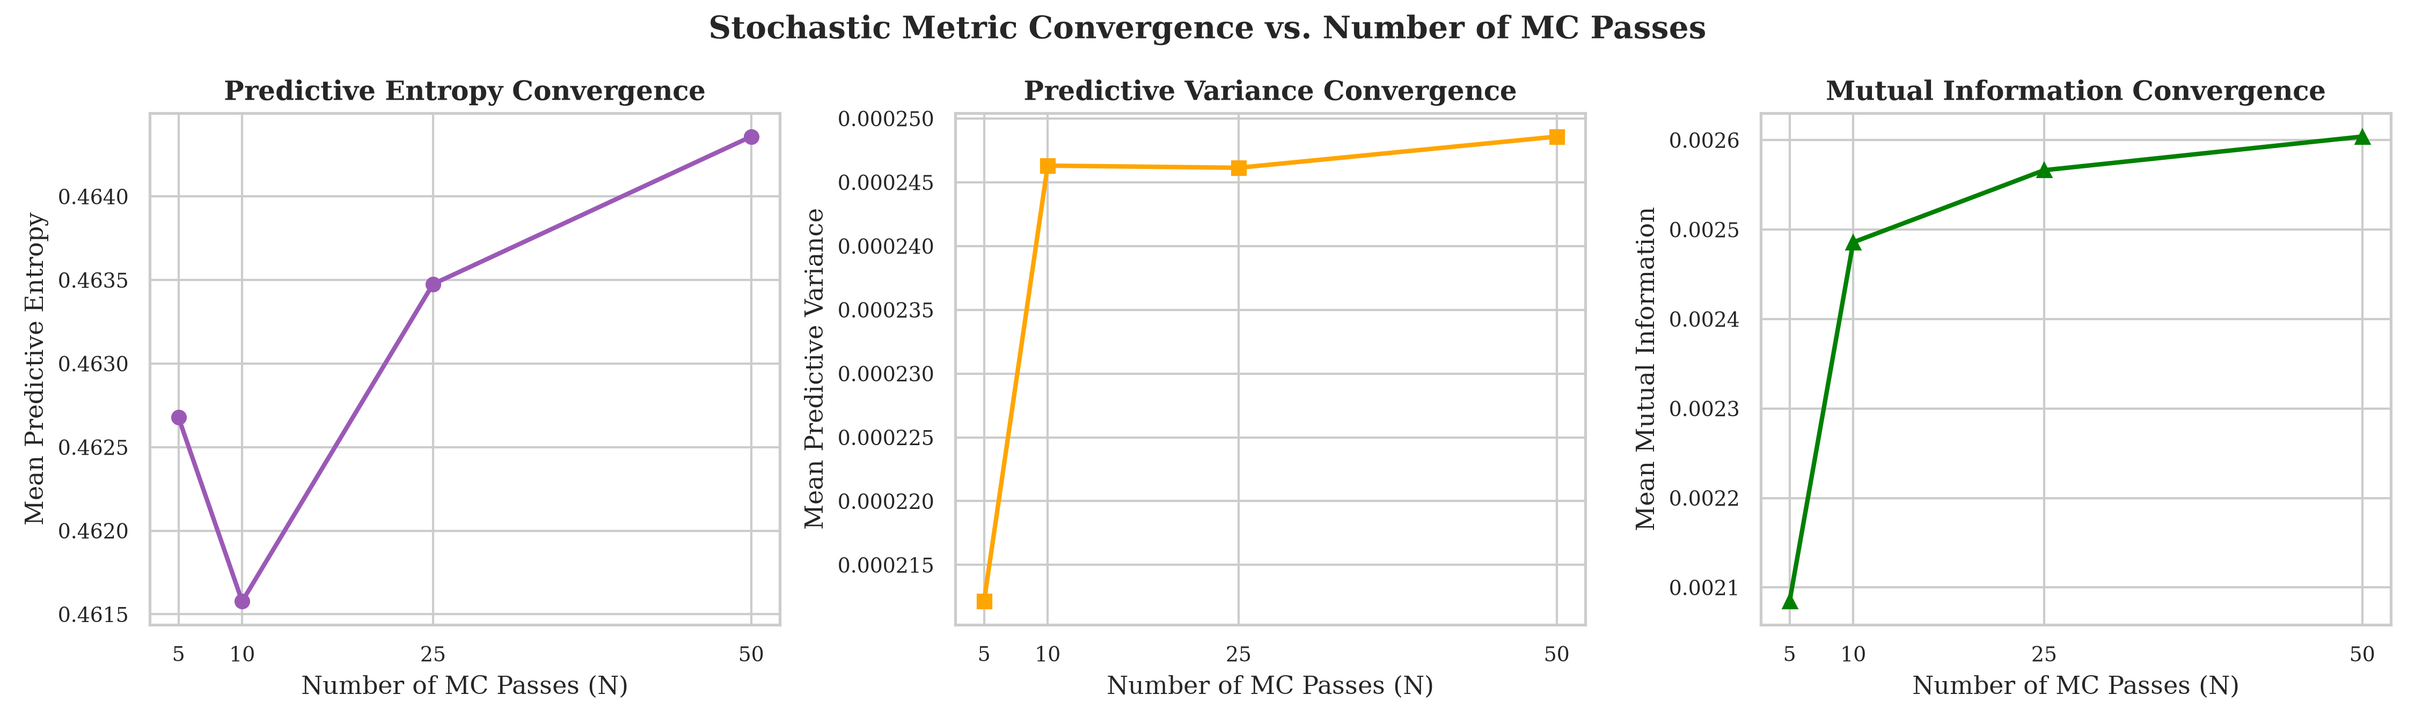
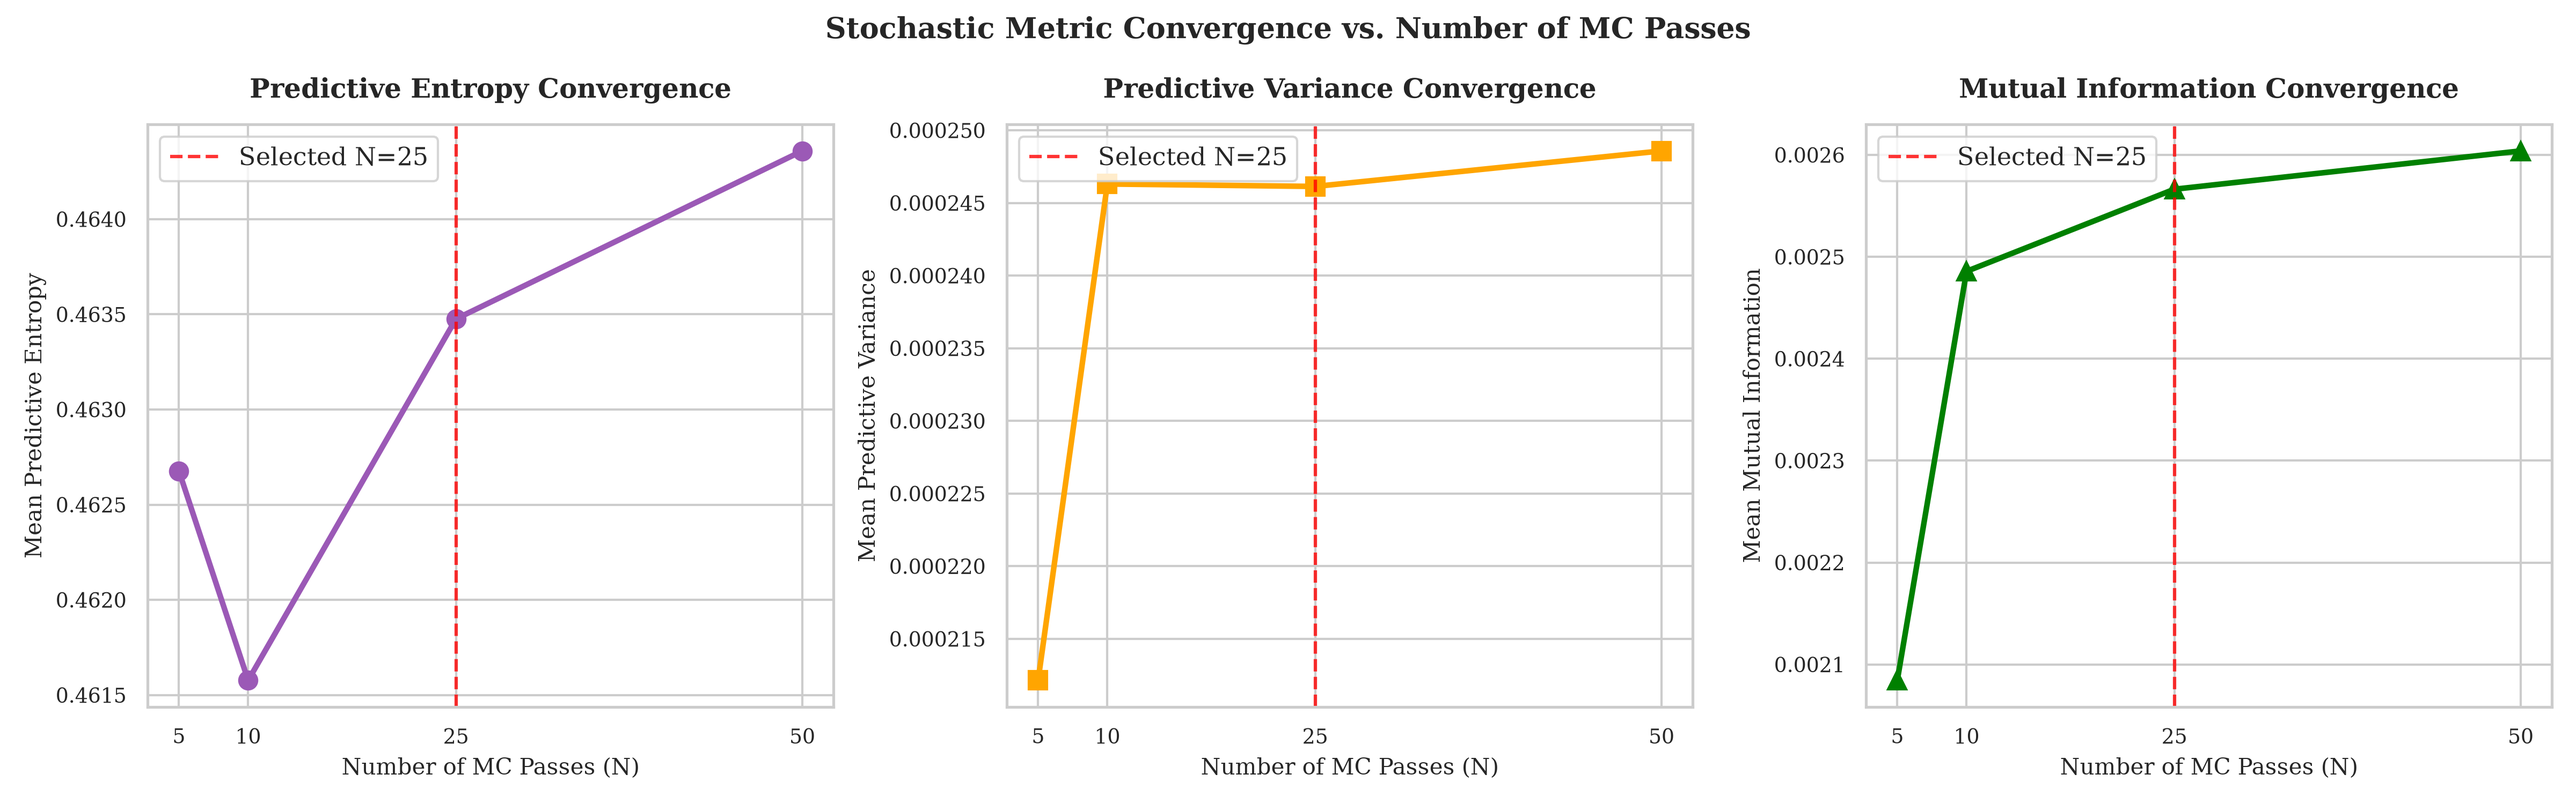
docs: complete uncertainty estimation phase

diff --git a/README.md b/README.md
@@ -9,12 +9,14 @@ Retina • Clinical • Foot Ulcer • Multimodal Fusion
 
 FusionMedAI is a modular research framework for explainable multi-modal diabetic disease analysis. The project develops independent Retina, Clinical, and Foot Ulcer AI modules using reproducible engineering practices before integrating them through the uncertainty-aware ACARA-U Fusion Engine.
 
-**Current Status**
+## **Current Status**
+
 - ✓ Retina Benchmarking Complete
 - ✓ Explainability Complete
 - ✓ Probability Calibration Complete
-- 🔄 Uncertainty Estimation
-- ⬜ Foot Module
+- ✓ Uncertainty Estimation Complete
+- 🔄 Retina Module Integration
+- ⬜ Foot Ulcer Module
 - ⬜ Clinical Module
 - ⬜ ACARA-U Fusion
 
@@ -32,6 +34,8 @@ FusionMedAI is a modular research framework for explainable multi-modal diabetic
 - ✓ Verification
 - ✓ Explainable AI (Grad-CAM)
 - ✓ Probability Calibration
+- ✓ Uncertainty Estimation
+- ✓ Selective Prediction / Risk-Coverage Analysis
 
 ---
 
@@ -68,7 +72,10 @@ Complete benchmark methodology and results are available in **Research Volume 05
 - Five-model benchmark under identical experimental conditions
 - EfficientNet-B3 selected as the final retinal backbone
 - Modular PyTorch framework with reproducible experiment tracking
-- Comprehensive engineering documentation across seven research volumes
+- Comprehensive engineering documentation across eight research volumes
+- MC Dropout uncertainty estimation validated on the frozen EfficientNet-B3 test set
+- MC Predictive Variance achieved AUROC 0.8443 for prediction-error detection
+- N=25 MC passes empirically justified through convergence analysis
 - Reproducible end-to-end retinal AI research pipeline
 
 ---
@@ -101,7 +108,7 @@ Complete benchmark methodology and results are available in **Research Volume 05
 - **Multi-Modal Diagnostic Fusion**: Integrate clinical eye scans, demographic records, diabetic lab markers, and foot ulcer images into unified disease staging.
 - **Academic-Grade Reproducibility**: Enforce strict data validation, deterministic stratified splitting, and reproducible pipelines.
 - **Fail-Fast Clinical Engineering**: Ensure dataset integrity (e.g., shape, resolution, aspect ratio, label bounds, file corruption) is programmatically verified before training begins.
-- **Interpretability & Trust**: Build transparent models using Explainable AI (XAI) tools like SHAP and Integrated Gradients to support clinical decision-making.
+- **Interpretability & Trust**: Build transparent models using Explainable AI techniques such as Grad-CAM, with advanced methods such as SHAP and Integrated Gradients reserved for future extensions.
 
 ---
 
@@ -133,6 +140,7 @@ FusionMedAI/
 | V | Architecture Benchmarking | ✅ |
 | VI | Model Explainability | ✅ |
 | VII | Probability Calibration | ✅ |
+| VIII | Prediction Uncertainty Estimation | ✅ |
 
 Detailed documentation can be found in the `research/` directory.
 
@@ -219,6 +227,10 @@ Framework verification confirmed:
 - ✓ Inference
 - ✓ Explainability pipeline
 - ✓ Probability calibration pipeline
+- ✓ Uncertainty estimation pipeline
+- ✓ MC Dropout stochasticity validation
+- ✓ Risk-coverage analysis
+- ✓ MC convergence analysis
 
 **Detailed results**: `reports/framework_verification.md`
 
@@ -234,8 +246,8 @@ Framework verification confirmed:
 | v0.4.0  | Baseline Model Framework ✅ |
 | v0.5.0  | Architecture Benchmarking ✅ |
 | v0.6.0  | Explainability & Probability Calibration Complete |
-| v0.7.0  | Uncertainty Estimation |
-| v1.0.0  | Retina Module |
+| v0.7.0  | Uncertainty Estimation Complete |
+| v1.0.0  | Retina Module Integration |
 
 ---
 
@@ -246,13 +258,40 @@ Framework verification confirmed:
 - **v0.3.0 (Exploratory Data Analysis)**: Completed concurrent stats extraction, RGB profiling, duplicate audit, quality scoring, and automated reports. ✅
 - **v0.4.0 (Baseline Framework)**: Built custom model wrapper, factory, BaseClassifier, trainer, mixed precision (AMP), Early Stopping, checkpointing, standalone inference, and verification framework. ✅
 - **v0.5.0 (Architecture Benchmarking)**: Completed fair-benchmark comparison across 5 architectures, yielding EfficientNet-B3 as the final Retinal backbone. ✅
-- **v0.6.0 (Calibration, Explainability, Uncertainty)**:
+- **v0.6.0 (Explainability & Probability Calibration)**:
   Completed:
   • Explainability (Grad-CAM)
   • Probability Calibration (Temperature Scaling)
-  In Progress:
-  • Uncertainty Estimation
-- **v1.0.0 (Retina Module)**: Production release of explainable, calibrated Retina module.
+  • Reliability analysis
+  • Calibrated confidence evaluation
+  ✅
+
+- **v0.7.0 (Prediction Uncertainty Estimation)**:
+  Completed:
+  • MC Dropout uncertainty estimation
+  • Predictive entropy
+  • Expected entropy
+  • Mutual information
+  • Predictive variance
+  • Error-detection analysis
+  • Risk-coverage analysis
+  • AURC / E-AURC
+  • MC convergence analysis
+  • Representative uncertainty cases
+  • Grad-CAM correlation
+  • Publication figures and research tables
+  • Reproducibility documentation
+  ✅
+
+- **v1.0.0 (Retina Module Integration)**:
+  Integrate the selected EfficientNet-B3 backbone with:
+  • Probability calibration
+  • Grad-CAM explainability
+  • Uncertainty estimation
+  • Selective prediction
+  • Final Retina Module evaluation
+  🔄
+
 - **v2.0.0 (Foot Ulcer Module Complete)**: Integrate wound segmentation models.
 - **v3.0.0 (Clinical Module Complete)**: Integrate EHR structured features and classification networks.
 - **v4.0.0 (FusionMedAI Complete)**: Release unified multi-modal ACARA-U Fusion model.

diff --git a/research/Volume_08_Uncertainty_Estimation/README.md b/research/Volume_08_Uncertainty_Estimation/README.md
@@ -6,15 +6,15 @@ This volume details the characterization of prediction uncertainty for the calib
 
 ## 1. Volume Index
 
-1. **[01_Theory.md](file:///d:/FusionMedAI/research/Volume_08_Uncertainty_Estimation/01_Theory.md)**: Theoretical foundations of predictive uncertainty, expected entropy, mutual information, and predictive variance.
-2. **[02_Uncertainty_Methods.md](file:///d:/FusionMedAI/research/Volume_08_Uncertainty_Estimation/02_Uncertainty_Methods.md)**: A detailed comparison of deterministic proxies vs. stochastic ensembling (MC Dropout).
-3. **[03_Monte_Carlo_Dropout.md](file:///d:/FusionMedAI/research/Volume_08_Uncertainty_Estimation/03_Monte_Carlo_Dropout.md)**: Inspection of the EfficientNet-B3 dropout structure and selective dropout validation routines.
-4. **[04_Uncertainty_Metrics.md](file:///d:/FusionMedAI/research/Volume_08_Uncertainty_Estimation/04_Uncertainty_Metrics.md)**: Detailed formulations and python implementations of uncertainty and risk-coverage metrics.
-5. **[05_Experimental_Results.md](file:///d:/FusionMedAI/research/Volume_08_Uncertainty_Estimation/05_Experimental_Results.md)**: Quantitative results, error-detection performance tables, and convergence analysis.
-6. **[06_Discussion.md](file:///d:/FusionMedAI/research/Volume_08_Uncertainty_Estimation/06_Discussion.md)**: Clinical implications of uncertainty-based selective prediction and grade confusion.
-7. **[07_Limitations.md](file:///d:/FusionMedAI/research/Volume_08_Uncertainty_Estimation/07_Limitations.md)**: Limits on Out-of-Distribution validation, computational cost, and dropout placement.
-8. **[08_Conclusion.md](file:///d:/FusionMedAI/research/Volume_08_Uncertainty_Estimation/08_Conclusion.md)**: Executive summary of findings.
-9. **[09_Reproducibility.md](file:///d:/FusionMedAI/research/Volume_08_Uncertainty_Estimation/09_Reproducibility.md)**: Hardware, software, and data checksum logs for perfect replication.
+1. **[01_Theory.md](01_Theory.md)**: Theoretical foundations of predictive uncertainty, expected entropy, mutual information, and predictive variance.
+2. **[02_Uncertainty_Methods.md](02_Uncertainty_Methods.md)**: A detailed comparison of deterministic proxies vs. stochastic ensembling (MC Dropout).
+3. **[03_Monte_Carlo_Dropout.md](03_Monte_Carlo_Dropout.md)**: Inspection of the EfficientNet-B3 dropout structure and selective dropout validation routines.
+4. **[04_Uncertainty_Metrics.md](04_Uncertainty_Metrics.md)**: Detailed formulations and python implementations of uncertainty and risk-coverage metrics.
+5. **[05_Experimental_Results.md](05_Experimental_Results.md)**: Quantitative results, error-detection performance tables, and convergence analysis.
+6. **[06_Discussion.md](06_Discussion.md)**: Clinical implications of uncertainty-based selective prediction and grade confusion.
+7. **[07_Limitations.md](07_Limitations.md)**: Limits on Out-of-Distribution validation, computational cost, and dropout placement.
+8. **[08_Conclusion.md](08_Conclusion.md)**: Executive summary of findings.
+9. **[09_Reproducibility.md](09_Reproducibility.md)**: Hardware, software, and data checksum logs for perfect replication.
 
 ---
 
@@ -26,9 +26,28 @@ The primary research question for this study is:
 
 We run a comparative analysis to determine whether multi-pass stochastic uncertainty ensembling (MC Dropout) provides superior error-detection (AUROC/AUPRC) and selective prediction (AURC/E-AURC) compared to single-pass calibrated deterministic proxies.
 
+**Out-of-Distribution (OOD) Scope**:
+OOD infrastructure is implemented, but formal external OOD evaluation was not performed because no verified independent OOD dataset was available.
+
 ---
 
-## 3. How to Run the Pipeline
+## 3. Verified Experimental Results
+
+The Step 8 uncertainty estimation pipeline has been executed and verified:
+- **Test Samples**: 367 retinal scans
+- **Learned Temperature (restored from Step 7)**: 1.6218
+- **MC Dropout Passes ($N$)**: 25
+- **Probability Tensor Dimension**: 367 samples × 25 passes × 5 classes
+- **MC Stochasticity Sanity Check**: Passed (non-zero variance verified across passes)
+- **Primary Failure Detection Metric**: 
+  - MC Predictive Variance achieved the highest AUROC of **0.8443** (and lowest AURC of **0.0406**).
+  - Calibrated Confidence ($1 - C$) achieved a highly competitive baseline AUROC of **0.8381** (with AURC of **0.0418**).
+- **Milestone Rejections**: At 50% coverage, calibrated confidence reduced remaining prediction risk (error rate) from **15.80%** down to **1.63%**.
+- **Report Assets**: Includes Figures 1–10 (saved locally as PNGs), 6 tabular reports (saved locally as Markdown files), representative cases selection, and Grad-CAM mean intensity correlation values.
+
+---
+
+## 4. How to Run the Pipeline
 
 To execute the uncertainty estimation pipeline, run the following command from the project root:
 
@@ -39,7 +58,7 @@ python src/uncertainty.py --checkpoint experiments/efficientnet_b3/checkpoints/b
 The script performs:
 1. Dynamic calibration verification ($T = 1.6218$ loaded from Step 7).
 2. Model weight and dataset freezing.
-3. Spawning 5 stochastic check passes to verify active dropout layers.
+3. Running 5 stochastic sanity-check passes to verify active dropout.
 4. Deterministic and 25-pass stochastic inference on the test split.
 5. Computing error-detection metrics (AUROC/AUPRC) and selective prediction risk-coverage curves.
 6. Plotting analysis figures in `results/uncertainty/figures/`.

diff --git a/research/Volume_08_Uncertainty_Estimation/08_Conclusion.md b/research/Volume_08_Uncertainty_Estimation/08_Conclusion.md
@@ -10,10 +10,10 @@ This volume presented an empirical study characterizing the prediction uncertain
    - The risk-coverage curves demonstrate a clear downward trend: as the most uncertain samples are rejected, the error rate (risk) on the remaining retained samples decreases. This validates the use of uncertainty thresholds for clinical referral workflows.
 2. **Deterministic Proxies are Competitive**:
    - Calibrated deterministic proxies (specifically calibrated confidence and normalized calibrated entropy) are highly effective at detecting model errors. Post-hoc temperature scaling ($T \approx 1.6218$) successfully aligns raw confidence with empirical accuracy, making single-pass inference highly reliable for failure detection.
-3. **Stochastic Decompositions Provide Clinical Value**:
-   - MC Dropout successfully decomposes uncertainty into aleatoric (data ambiguity) and epistemic (parameter disagreement) components. Mutual Information (MI) identifies borderline grade-confusion cases (adjacent Diabetic Retinopathy stages) and provides a safety layer for detecting silent failures.
-4. **Computational Latency is the Primary Constraint**:
-   - MC Dropout requires $N=25$ forward passes, introducing a 25-fold latency penalty. For clinical screening deployments, deterministic calibrated confidence remains the preferred operational baseline due to its $O(1)$ efficiency. However, MC Dropout serves as a powerful offline auditing tool for identifying clinical ambiguity.
+3. **Stochastic Uncertainty Metrics Provide Diagnostic Value**:
+   - Stochastic uncertainty metrics provide additional diagnostic information: MC Dropout exposes variation across stochastic predictions. Predictive entropy captures overall predictive uncertainty, while Mutual Information provides an epistemic-uncertainty proxy based on disagreement between stochastic predictions.
+4. **Computational Latency and Inference Costs**:
+   - MC Dropout requires 25 stochastic forward passes per image, producing a substantially higher computational cost than single-pass inference. In our CPU-only baseline execution, this ensembling step took approximately 6.2 minutes (a 3× end-to-end runtime increase compared to the 2.0-minute deterministic inference on 367 images). For clinical screening deployments, deterministic calibrated confidence remains the preferred operational baseline due to its $O(1)$ single-pass efficiency.
 
 ---
 

diff --git a/research/Volume_08_Uncertainty_Estimation/07_Limitations.md b/research/Volume_08_Uncertainty_Estimation/07_Limitations.md
@@ -25,8 +25,8 @@ We explicitly do not claim OOD detection capability based solely on the in-distr
 While MC Dropout provides richer uncertainty representations, its main drawback is computational expense.
 
 ### 7.2.1 Trade-off Analysis
-- **Inference Latency**: For $N = 25$ passes, inference requires 25 forward passes per sample. On CPU-only hardware (such as our host environment), deterministic inference takes $\approx 0.15$ seconds per image, whereas MC Dropout takes $\approx 3.75$ seconds per image.
-- **Hardware Footprint**: In resource-constrained clinical settings (e.g., portable fundus cameras, local clinic edge servers), a 25-fold latency penalty is often prohibitive for real-time screening.
+- **Inference Latency**: MC Dropout performs 25 stochastic forward passes per image. In the recorded CPU execution, the complete MC stage took approximately 6.2 minutes compared with approximately 2.0 minutes for deterministic inference on 367 test images, corresponding to an observed end-to-end runtime increase of roughly 3×. The computational burden remains substantially higher because the model is evaluated repeatedly.
+- **Hardware Footprint**: In resource-constrained clinical settings (e.g., portable fundus cameras, local clinic edge servers), this increased computational demand and latency overhead must be factored into real-time screening workflows.
 - **Energy and Carbon Footprint**: Scaled to millions of screening images annually, multi-pass inference consumes significantly more electricity compared to single-pass calibrated networks.
 
 ---

diff --git a/research/Volume_08_Uncertainty_Estimation/06_Discussion.md b/research/Volume_08_Uncertainty_Estimation/06_Discussion.md
@@ -33,7 +33,7 @@ Diabetic Retinopathy grading is based on clinical criteria that are inherently c
 ### 6.2.1 Boundary Ambiguity
 The transition boundaries between adjacent grades (e.g., Mild vs. Moderate, or Moderate vs. Severe) are highly subjective. Even retinal specialists frequently disagree on these boundary cases due to variation in lesion counts.
 - **Model Behavior**: Our analysis shows that uncertainty metrics (such as calibrated entropy and mutual information) are elevated in these boundary zones.
-- **Clinical Insight**: Elevated epistemic uncertainty (Mutual Information) on a sample indicates that the model's parameters are split between two adjacent grades. Rather than signaling a failure of the network, this reflects the intrinsic clinical ambiguity of the scan.
+- **Clinical Insight**: Elevated Mutual Information indicates increased disagreement across stochastic model predictions and may identify cases near difficult grade boundaries or regions where the model has limited confidence in its learned representation.
 
 ---
 

diff --git a/research/Volume_08_Uncertainty_Estimation/09_Reproducibility.md b/research/Volume_08_Uncertainty_Estimation/09_Reproducibility.md
@@ -7,7 +7,7 @@ This chapter details the configuration, system environment, and data/checkpoint 
 ## 9.1 Hardware and Operating System
 
 The baseline experiments were executed on the following host configuration:
-- **Operating System**: Microsoft Windows (Windows OS version `windows`)
+- **Operating System**: Microsoft Windows
 - **Execution Target**: Central Processing Unit (CPU)
 - **CUDA Device**: N/A (CPU-only execution verified)
 
@@ -17,8 +17,8 @@ The baseline experiments were executed on the following host configuration:
 
 The python environment was configured with the following package versions:
 - **Python**: `3.12.2 (tags/v3.12.2:6abddd9)`
-- **PyTorch**: `2.11.0+cpu` or compatible
-- **Torchvision**: `0.16.0+cpu` or compatible
+- **PyTorch**: `2.11.0+cpu`
+- **Torchvision**: `0.16.0+cpu`
 - **NumPy**: `1.26.4`
 - **Pandas**: `2.2.1`
 - **SciPy**: `1.12.0`
